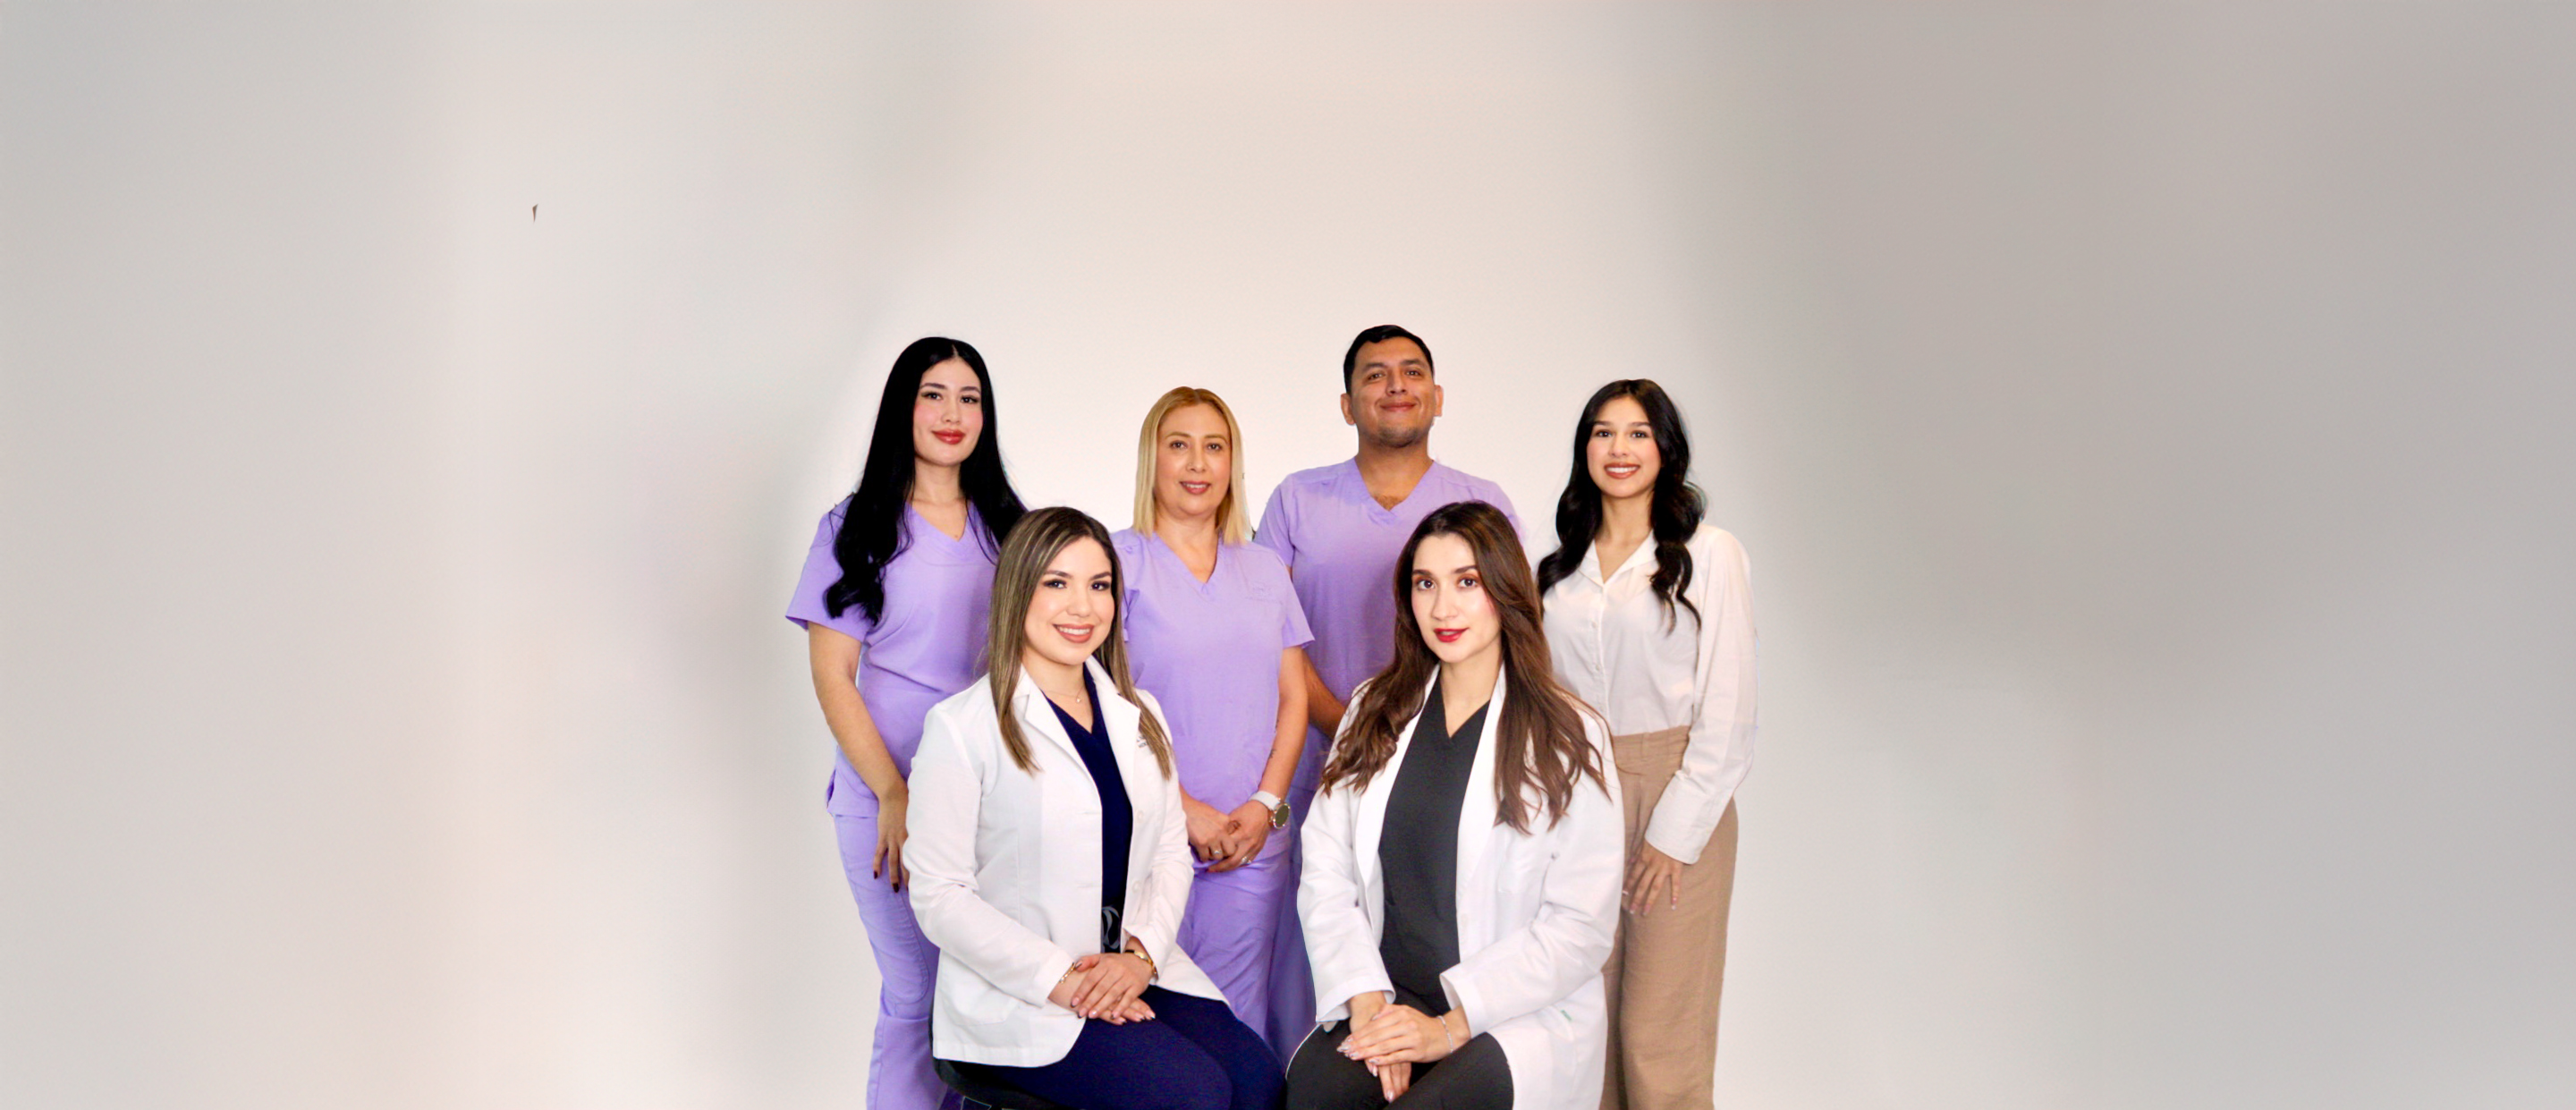
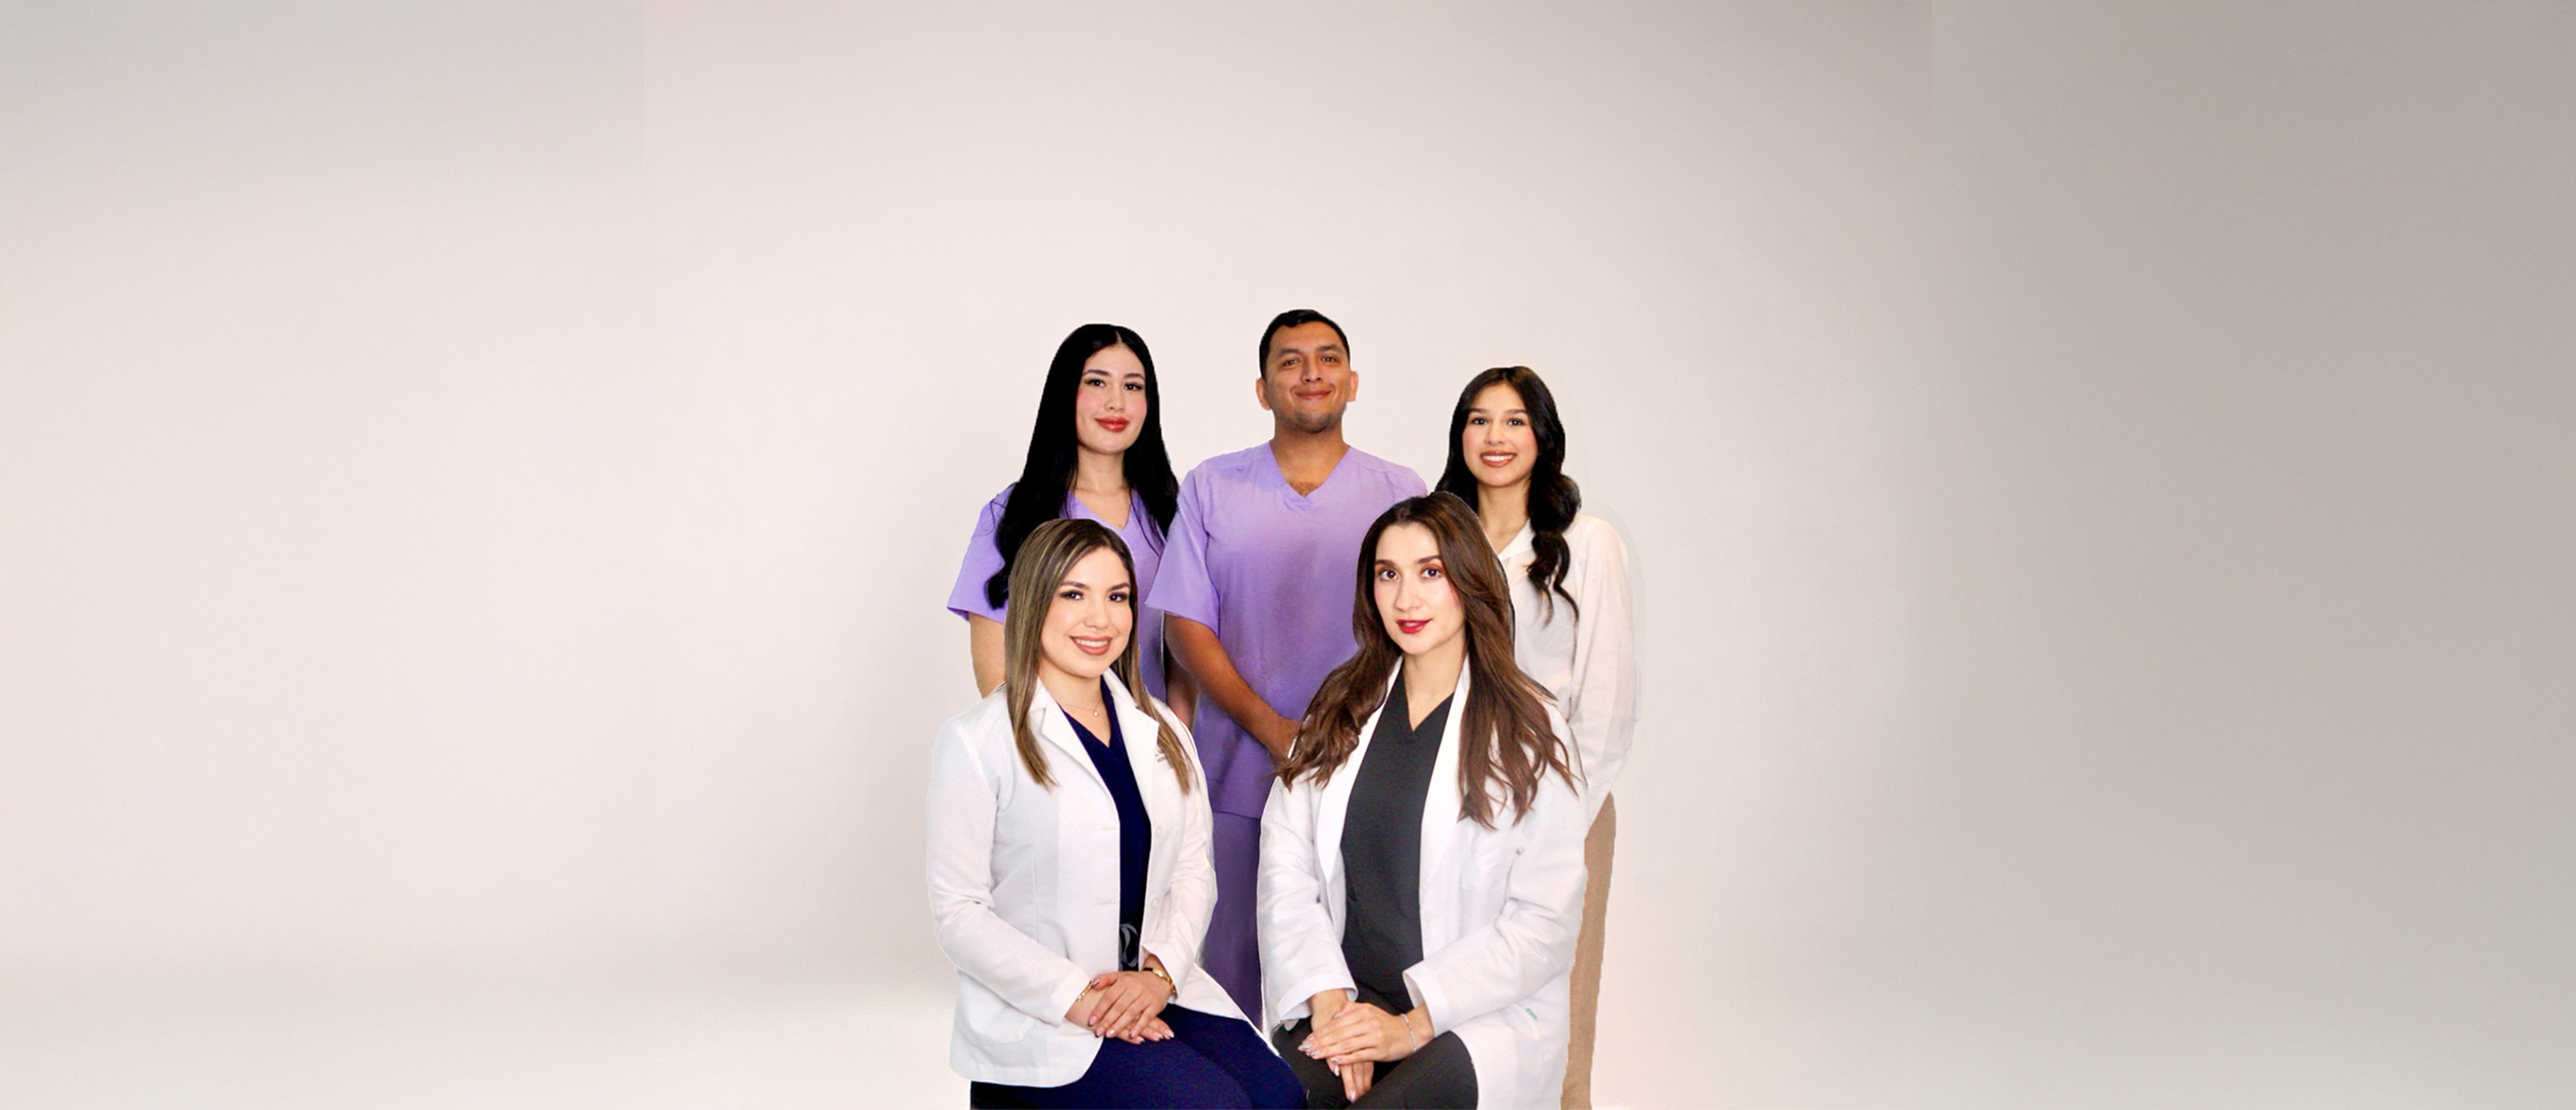
updated team pictures

Changed region(s): [[0.2188, 0.2143, 0.75, 1.0], [0.0, 0.1837, 0.125, 0.8268]]

diff --git a/pages/ourteam.jsx b/pages/ourteam.jsx
@@ -81,12 +81,6 @@ export default function TeamPage({ teamCategories = [] }) {
                   },
                   {
                     "@type": "Person",
-                    name: "Vicky",
-                    jobTitle: "Cosmetologist",
-                    url: "https://www.mavemedspa.com/ourteam/vicky",
-                  },
-                  {
-                    "@type": "Person",
                     name: "Manuel",
                     jobTitle: "Cosmetologist & Masseur",
                     url: "https://www.mavemedspa.com/ourteam/manuel",

diff --git a/components/HeroSection.jsx b/components/HeroSection.jsx
@@ -127,8 +127,8 @@ export default function HeroSection() {
           className="
             absolute inset-0
             bg-gradient-to-b
-            from-black/80
-            via-black/50
+            from-black/60
+            via-black/30
             to-black/0
           "
         />

diff --git a/lib/data/allStaff.jsx b/lib/data/allStaff.jsx
@@ -1,4 +1,3 @@
-import { vicky } from "./staff/cosmetologists/vicky"
 import { manuel } from "./staff/cosmetologists/manuel"
 import { mayra } from "./staff/cosmetologists/mayra"
 import { veronica } from "./staff/directors/veronica"
@@ -12,7 +11,6 @@ export const allStaff = [
     nataly,
     jocelyn,
     zury,
-    vicky,
     manuel,
     mayra,
 ]

diff --git a/components/ContactUs.jsx b/components/ContactUs.jsx
@@ -92,6 +92,7 @@ export default function ContactUs() {
             src="/equipo2.jpg"
             alt="Group picture of the team at Mave Medical Spa in Tijuana"
             fill
+            quality={90}
             className="object-cover object-center md:object-[30%_40%]"
             priority
           />